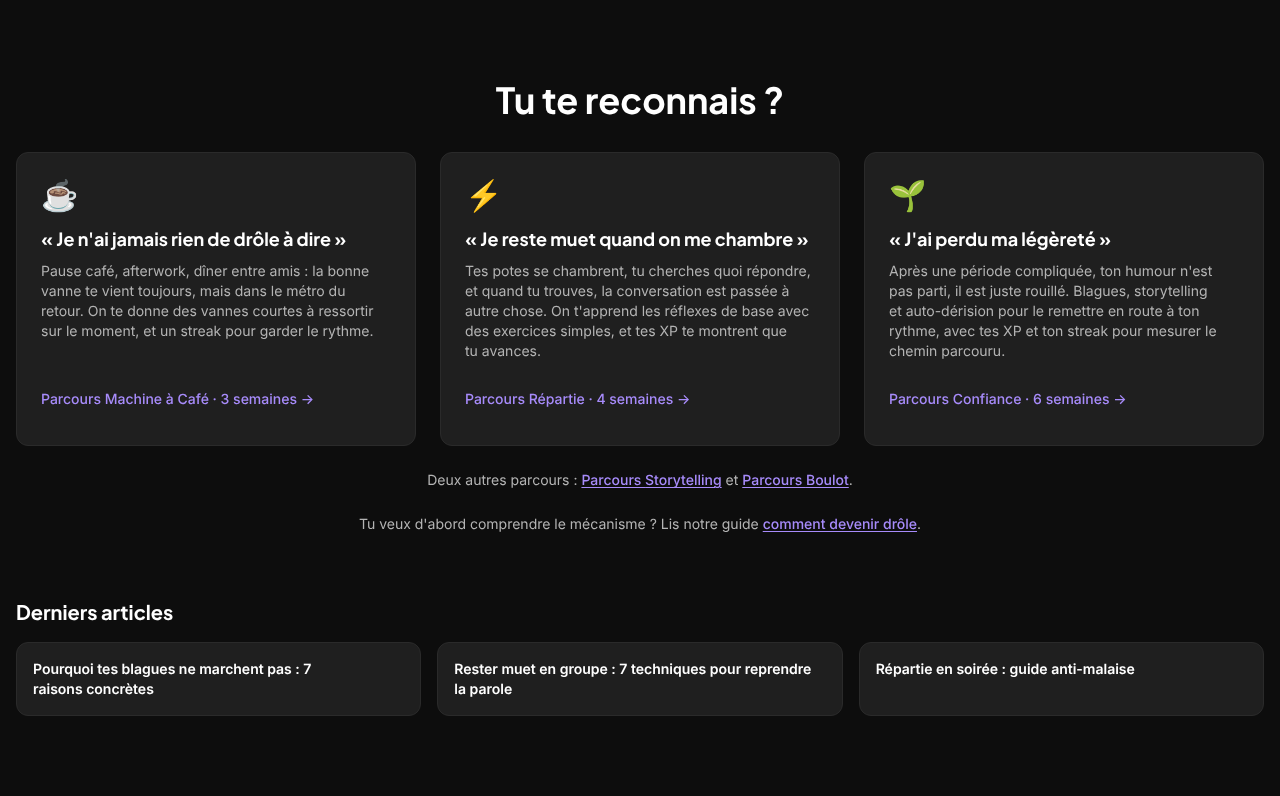
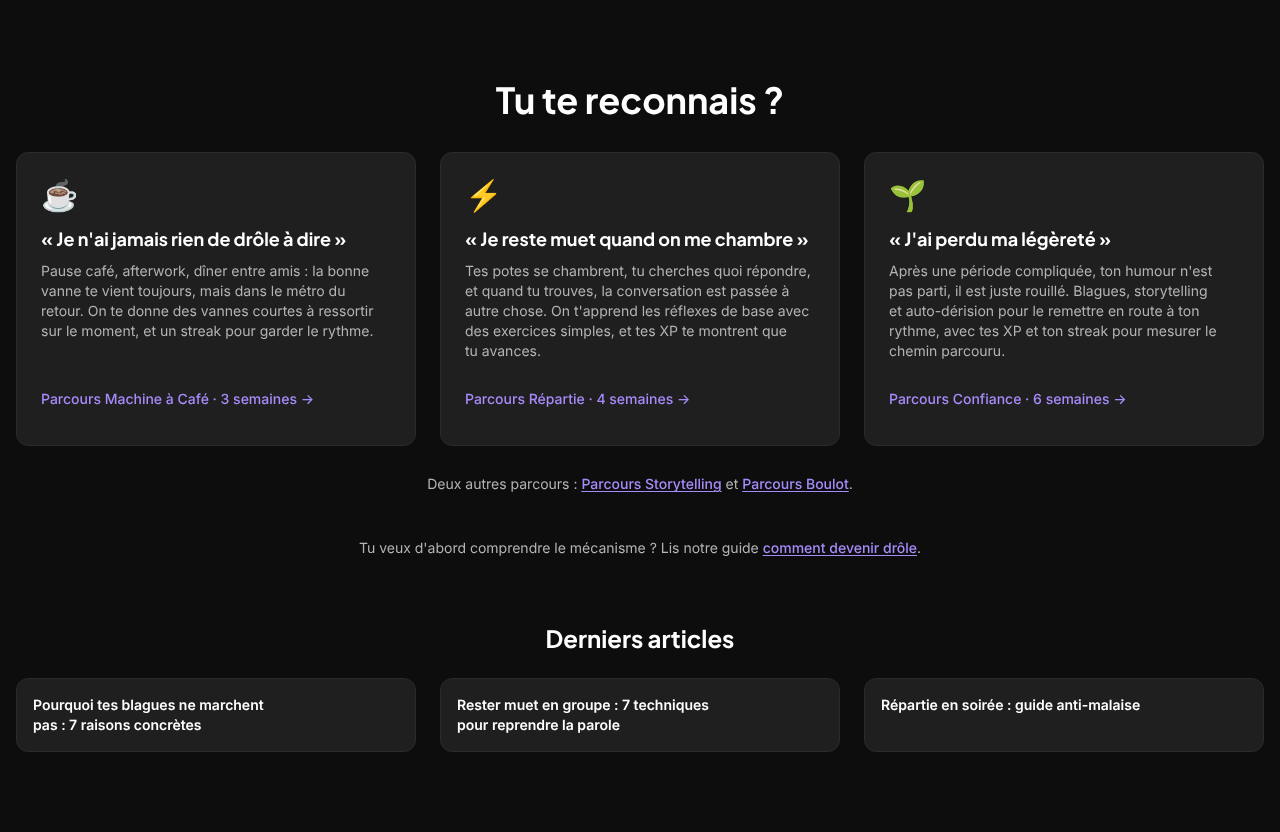
s20 : accueil S3 après relectures design/ux (liens propres, cibles 44 px, titre centré, frTypo, espacements, focus)
Claude-Session: https://claude.ai/code/session_019BVDUNMGPbMjhN6J3xXEvu

diff --git a/apps/web/src/__tests__/feature/accueil-maillage-s3-s20.test.tsx b/apps/web/src/__tests__/feature/accueil-maillage-s3-s20.test.tsx
@@ -7,6 +7,7 @@ import { render, screen, within } from "@testing-library/react";
 import { blogArticles } from "@/lib/blog-articles";
 import { UNPUBLISHED_STATIC_SLUGS, REDIRECTED_BLOG_SLUGS } from "@/lib/seo-redirects";
 import { PREMIUM_PARCOURS } from "@/config/premium";
+import { frTypo } from "@/lib/fr-typo";
 
 type Row = { slug: string; title: string; isPublished: boolean; publishedAt: Date | null };
 type Where = {
@@ -90,18 +91,19 @@ describe("S3a : autres parcours sous les cartes personas", () => {
     expect(container.textContent).toBe(`Un autre parcours${NBSP}: Parcours Storytelling.`);
     expect(screen.getByRole("link", { name: "Parcours Storytelling" })).toHaveAttribute(
       "href",
-      "/parcours/storytelling?src=accueil#etape-1",
+      "/parcours/storytelling",
     );
   });
 
-  it("2 parcours restants : texte validé, liens ?src=accueil", () => {
+  it("2 parcours restants : texte validé, liens vers la page du parcours (sans ?src, cibles 44 px)", () => {
     const { container } = render(<AutresParcours parcours={TOUS} />);
     expect(container.textContent).toBe(`Deux autres parcours${NBSP}: Parcours Storytelling et Parcours Boulot.`);
     const liens = screen.getAllByRole("link");
     expect(liens.map((l) => l.getAttribute("href"))).toEqual([
-      "/parcours/storytelling?src=accueil#etape-1",
-      "/parcours/boulot?src=accueil#etape-1",
+      "/parcours/storytelling",
+      "/parcours/boulot",
     ]);
+    for (const l of liens) expect(l).toHaveClass("inline-flex", "min-h-[44px]", "items-center", "whitespace-nowrap");
   });
 
   it("3 parcours restants : « Trois autres parcours : X, Y et Z. »", () => {
@@ -109,7 +111,7 @@ describe("S3a : autres parcours sous les cartes personas", () => {
     expect(container.textContent).toBe(
       `Trois autres parcours${NBSP}: Parcours Confiance, Parcours Storytelling et Parcours Boulot.`,
     );
-    for (const l of screen.getAllByRole("link")) expect(l.getAttribute("href")).toContain("?src=accueil");
+    for (const l of screen.getAllByRole("link")) expect(l.getAttribute("href")).not.toContain("?");
   });
 
   it("par défaut : la liste des parcours publiés (PREMIUM_PARCOURS) privée des 3 cartes", () => {
@@ -185,6 +187,16 @@ describe("S3b : derniers articles (même source et même filtre que /blog)", () 
       ["Article C", "/blog/c"],
     ]);
     expect(bloc.textContent).toBe("Derniers articlesArticle AArticle BArticle C");
+    expect(within(bloc).getByRole("heading", { name: "Derniers articles" })).toHaveClass("text-center");
+    for (const l of liens) expect(l).toHaveClass("focus-visible:ring-2", "focus-visible:ring-accent-primary");
+  });
+
+  it("titres passés par frTypo : chiffre collé au nom, insécable avant « : »", () => {
+    render(<DerniersArticles articles={[{ slug: "p", title: "Pourquoi tes blagues ne marchent pas : 7 raisons concrètes", date: "2026-10-15" }]} />);
+    const lien = screen.getByRole("link");
+    expect(lien.textContent).toBe(frTypo("Pourquoi tes blagues ne marchent pas : 7 raisons concrètes"));
+    expect(lien.textContent).toContain(`7${NBSP}raisons`);
+    expect(lien.textContent).toContain(`pas${NBSP}:`);
   });
 
   it("liste vide : aucun bloc", () => {

diff --git a/apps/web/src/components/home/derniers-articles.tsx b/apps/web/src/components/home/derniers-articles.tsx
@@ -1,10 +1,12 @@
 import Link from "next/link";
 import type { DernierArticle } from "@/lib/derniers-articles";
+import { frTypo } from "@/lib/fr-typo";
 
 /**
  * Accueil, maillage S3b (docs/seo/maillage-decouverte-s20.md §4, validé par
  * Thomas le 12/10) : 3 liens titres vers les articles visibles les plus récents,
- * hors pilier. Styles repris du bloc « Explore aussi » de /blog.
+ * hors pilier. Styles du bloc « Explore aussi » de /blog, retouchés par la relecture
+ * @design s20 (titre centré, grille des cartes personas, frTypo, anneau de focus).
  * Composant serveur sans état : la page charge la liste (`getDerniersArticles`,
  * repli statique si la base répond mal) ; fraîcheur = ISR de l'accueil (page.tsx).
  */
@@ -12,17 +14,17 @@ export function DerniersArticles({ articles }: { articles: readonly DernierArtic
   if (articles.length === 0) return null;
   return (
     <section aria-labelledby="derniers-articles" className="pb-12 md:pb-16">
-      <h2 id="derniers-articles" className="font-display mb-4 text-xl font-bold">
+      <h2 id="derniers-articles" className="font-display mb-4 text-center text-xl font-bold md:mb-6 md:text-2xl">
         Derniers articles
       </h2>
-      <ul className="grid gap-4 sm:grid-cols-3">
+      <ul className="grid gap-4 md:grid-cols-3 md:gap-6">
         {articles.map((a) => (
           <li key={a.slug}>
             <Link
               href={`/blog/${a.slug}`}
-              className="block h-full rounded-lg border border-border bg-background-card p-4 text-sm font-semibold text-text-primary transition-colors hover:border-accent-primary/40"
+              className="block h-full rounded-lg border border-border bg-background-card p-4 text-sm font-semibold text-text-primary transition-colors [text-wrap:balance] hover:border-accent-primary/40 focus-visible:outline-none focus-visible:ring-2 focus-visible:ring-accent-primary focus-visible:ring-offset-2 focus-visible:ring-offset-background"
             >
-              {a.title}
+              {frTypo(a.title)}
             </Link>
           </li>
         ))}

diff --git a/apps/web/src/components/home/autres-parcours.tsx b/apps/web/src/components/home/autres-parcours.tsx
@@ -1,7 +1,7 @@
 import { Fragment } from "react";
 import Link from "next/link";
 import { PREMIUM_PARCOURS } from "@/config/premium";
-import { isParcoursSlug, parcoursEtape1Href } from "@/lib/entrees-parcours";
+import { isParcoursSlug } from "@/lib/entrees-parcours";
 
 /**
  * Accueil, maillage S3a (docs/seo/maillage-decouverte-s20.md §4, texte validé
@@ -11,7 +11,7 @@ import { isParcoursSlug, parcoursEtape1Href } from "@/lib/entrees-parcours";
  * Liste = parcours publiés de l'offre (`PREMIUM_PARCOURS`, déjà filtrée par les
  * interrupteurs de publication, source du hub /parcours depuis s19), privée des
  * parcours des cartes. Nombre en lettres qui suit la liste ; liste vide → rien.
- * Liens d'entrée à l'étape 1, `?src=accueil` (comme les cartes du hero).
+ * Liens vers la page du parcours (comme les cartes, sans `?src` : URL propre, arbitrage s20 UX C1).
  */
 
 /** Slugs des 3 cartes « Tu te reconnais ? ». */
@@ -35,19 +35,19 @@ export function AutresParcours({
   exclus = PARCOURS_CARTES_ACCUEIL,
 }: AutresParcoursProps) {
   const autres = parcours.flatMap((p) =>
-    isParcoursSlug(p.slug) && !exclus.includes(p.slug) ? [{ name: p.name, href: parcoursEtape1Href(p.slug, "accueil") }] : [],
+    isParcoursSlug(p.slug) && !exclus.includes(p.slug) ? [{ name: p.name, href: `/parcours/${p.slug}` }] : [],
   );
   if (autres.length === 0) return null;
 
   return (
-    <p className="mt-6 text-center text-sm text-text-secondary">
+    <p className="mt-4 text-center text-sm text-text-secondary">
       {autresParcoursIntro(autres.length)}&nbsp;:{" "}
       {autres.map((p, i) => (
         <Fragment key={p.href}>
           {i > 0 && (i === autres.length - 1 ? " et " : ", ")}
           <Link
             href={p.href}
-            className="font-medium text-accent-link underline underline-offset-2"
+            className="inline-flex min-h-[44px] items-center whitespace-nowrap font-medium text-accent-link underline underline-offset-2"
           >
             Parcours {p.name}
           </Link>

diff --git a/apps/web/src/app/(dashboard)/page.tsx b/apps/web/src/app/(dashboard)/page.tsx
@@ -156,8 +156,8 @@ export default async function HomePage() {
         <AutresParcours />
 
         {/* Lien vers le pilier SEO (docs/seo/pilier-non-indexe-s15.md, L2) */}
-        <p className="mt-6 text-center text-sm text-text-secondary">
-          Tu veux d&apos;abord comprendre le mécanisme ? Lis notre guide{" "}
+        <p className="mt-8 text-center text-sm text-text-secondary">
+          Tu veux d&apos;abord comprendre le mécanisme&nbsp;? Lis notre guide{" "}
           <Link href="/blog/comment-devenir-drole" className="font-medium text-accent-link underline underline-offset-2">
             comment devenir drôle
           </Link>

diff --git a/REPLIT_ACTIONS.md b/REPLIT_ACTIONS.md
@@ -2,10 +2,10 @@
 
 ## s20 Maillage S3 accueil (@fullstack), **NON DÉPLOYÉ, NON COMMITÉ** (attend la relecture du rendu @design et @ux à 10/10, règle du 07/10)
 
-- **S3a** : sous les 3 cartes personas, « Deux autres parcours : Parcours Storytelling et Parcours Boulot. » (`components/home/autres-parcours.tsx`, liste = `PREMIUM_PARCOURS` hors cartes, liens `/parcours/<slug>?src=accueil#etape-1`).
+- **S3a** : sous les 3 cartes personas, « Deux autres parcours : Parcours Storytelling et Parcours Boulot. » (`components/home/autres-parcours.tsx`, liste = `PREMIUM_PARCOURS` hors cartes, liens `/parcours/<slug>` (alignés sur les 3 cartes, relecture ux C1)).
 - **S3b** : bloc « Derniers articles », 3 liens titres (`components/home/derniers-articles.tsx`, `lib/derniers-articles.ts` : base visible + statiques, hors pilier, repli statique si la base échoue).
 - **ISR accueil** : `revalidate = 3600` (plafond) ; durée effective 300 s (prerender-manifest). Test `accueil-maillage-s3-s20.test.tsx`. Captures : `docs/seo/captures-accueil-s3/`. Aucune variable, migration ni ressource.
-- **Commande** : celle de s19 (chaîne Hyperdrive factice sur `build:cf` et `deploy:cf`). **Vérifs** : HTML de `/` contient `?src=accueil#etape-1` pour storytelling et boulot, et 3 liens `/blog/` sous « Derniers articles », sans `comment-devenir-drole` dans le bloc.
+- **Commande** : celle de s19 (chaîne Hyperdrive factice sur `build:cf` et `deploy:cf`). **Vérifs** : HTML de `/` contient `href="/parcours/storytelling"` et `href="/parcours/boulot"`, et 3 liens `/blog/` sous « Derniers articles », sans `comment-devenir-drole` dans le bloc.
 
 ## s20 Maillage S1, S2, S5 (@fullstack, relu @design @ux 10/10), **DÉPLOYÉ le 12/10/2026 à 07:46 UTC, version `ab4b458b-636f-4747-b183-54d6518c4855`**, N-1 `d344ceb6-b152-4bb0-a903-64ea5969d443`
 
